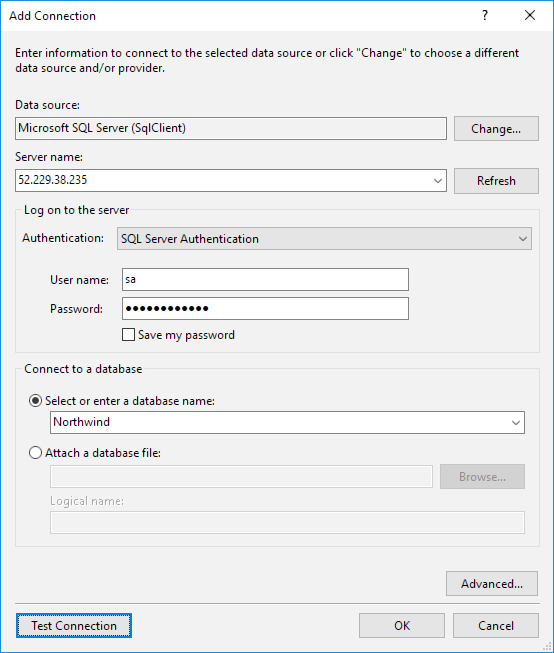
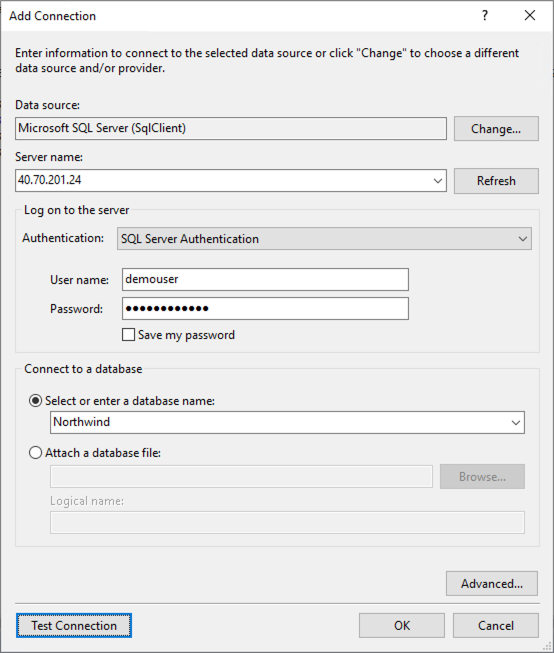
Migrate to SQL updates

diff --git a/Hands-on lab/HOL step-by-step - Data Platform upgrade and migration.md b/Hands-on lab/HOL step-by-step - Data Platform upgrade and migration.md
@@ -1340,36 +1340,37 @@ In this exercise, you will modify the `NorthwindMVC` application so it targets S
 2. Modify the connection string named `SqlServerConnectionString` to match your remote SQL Server credentials.
 
     - Replace the value of "data source" with your SqlServer2017 VM's public IP address.
-
     - Verify the value of "password" is **Password.1!!**
 
     ![The information above is highlighted in Web.config.](./media/visual-studio-web-config-connection-string-sql-server.png "Replace the password value")
 
-3. Build the solution, by selecting Build in the Visual Studio menu, then selecting Build Solution.
+3. Save the `web.config` file.
 
-4. In the Solution Explorer, expand the Data folder, and select all the files within the folder.
+4. Build the solution, by selecting Build in the Visual Studio menu, then selecting Build Solution.
+
+5. In the Solution Explorer, expand the Data folder, and select all the files within the folder.
 
     ![In Solution Explorer, all the files under Data (highlighted) are selected.](./media/visual-studio-solution-explorer-data-folder.png "Expand the Data folder")
 
-5. Right-click, and choose **Delete**.
+6. Right-click, and choose **Delete**.
 
     ![Delete is selected in the shortcut menu for all the files listed under Data.](./media/visual-studio-solution-explorer-data-folder-delete.png "Delete the files")
 
-6. Select **OK** at the confirmation prompt.
+7. Select **OK** at the confirmation prompt.
 
-7. Right-click on the Data folder, and select **Add > New Item...**
+8. Right-click on the Data folder, and select **Add > New Item...**
 
     ![In the shortcut menu for the Data folder, New Item and Add are highlighted.](./media/visual-studio-solution-explorer-data-add-new-item.png "Select Add")
 
-8. In the Add New Item dialog, expand Visual C#, select **Data**, and select **ADO.NET Entity Data Model**. Enter **DataContext** for the name, and select **Add**.
+9. In the Add New Item dialog, expand Visual C#, select **Data**, and select **ADO.NET Entity Data Model**. Enter **DataContext** for the name, and select **Add**.
 
     ![In the Add New Item dialog box, Visual C#, Data, ADO.NET Entity Data Model, and DataContext are highlighted.](./media/visual-studio-solution-explorer-data-add-new-data-context.png "Add DataContext")
 
-9. In the wizard's Choose Model Contents dialog, select **Code First from database**, and select **Next**.
+10. In the wizard's Choose Model Contents dialog, select **Code First from database**, and select **Next**.
 
     ![Code First from database is highlighted under What should the model contain? in the Entity Data Model Wizard.](./media/visual-studio-entity-data-model-wizard-choose-model.png "Select Code First from database")
 
-10. In the Choose Your Data Connection dialog:
+11. In the Choose Your Data Connection dialog:
     - Select **SqlServerConnectionString (Settings)** from the data connection drop down.
     - Select **Yes, include the sensitive data in the connection string**.
     - **Uncheck Save connection settings in Web.Config**.
@@ -1377,15 +1378,15 @@ In this exercise, you will modify the `NorthwindMVC` application so it targets S
 
     ![SqlServerConnectionString (Settings) and Yes, include the sensitive data in the connection string are selected and highlighted in the Entity Data Model Wizard, and Save connection settings in Web.Config is cleared.](./media/visual-studio-entity-data-model-wizard-data-connection.png "Choose Your Data Connection settings")
 
-11. If prompted, in the Connect to SQL Server dialog, enter the Password, **Password.1!!**
+12. If prompted, in the Connect to SQL Server dialog, enter the Password, **Password.1!!**
 
     ![The password above is entered in the Connect to SQL Server dialog box.](./media/visual-studio-entity-data-model-wizard-connect-to-sql-server.png "Enter the Password")
 
-12. On the Choose Your Database Objects and Settings screen, expand the Tables node, and check **NW** only. Ensure **Pluralize or singularize generated column names** is checked.
+13. On the Choose Your Database Objects and Settings screen, expand the Tables node, and check **NW** only. Ensure **Pluralize or singularize generated column names** is checked.
 
     ![The Tables node is selected, and NW is selected and highlighted in the Entity Data Model Wizard. Pluralize or singularize generated column names is also selected.](./media/visual-studio-entity-data-model-wizard-database-objects.png "Choose Your Database Objects and Settings")
 
-13. Select **Finish**, and the model will be generated. This may take a few minutes.
+14. Select **Finish**, and the model will be generated. This may take a few minutes.
 
 ### Task 2: Modify Application Code
 
@@ -1473,7 +1474,7 @@ In this exercise, you will modify the `NorthwindMVC` application so it targets S
 
     ![Data Connections is selected in Server Explorer, and Add Connection is highlighted in the shortcut menu.](./media/visual-studio-server-explorer-data-connections.png "Select Add Connection")
 
-21. On the Choose Data Source dialog, select **Microsoft SQL Server**, and select **Next**.
+21. On the Choose Data Source dialog, select **Microsoft SQL Server**, and select **Continue**.
 
     ![Microsoft SQL Server is selected and highlighted under Data source in the Choose Data Source dialog box.](./media/visual-studio-server-explorer-data-connections-add.png "Select Microsoft SQL Server")
 
@@ -1482,7 +1483,7 @@ In this exercise, you will modify the `NorthwindMVC` application so it targets S
     - **Data source**: Leave Microsoft SQL Server (SqlClient).
     - **Server name**: Enter the IP address of your SqlServer2017 VM.
     - **Authentication**: Select SQL Server Authentication.
-    - **Username**: Enter sa
+    - **Username**: Enter demouser
     - **Password**: Enter Password.1!!
     - **Connect to a database**: Choose Select or enter database name, and enter Northwind.
     - Select **Test Connection** to verify your settings are correct, and select **OK** to close the successful connection dialog.
